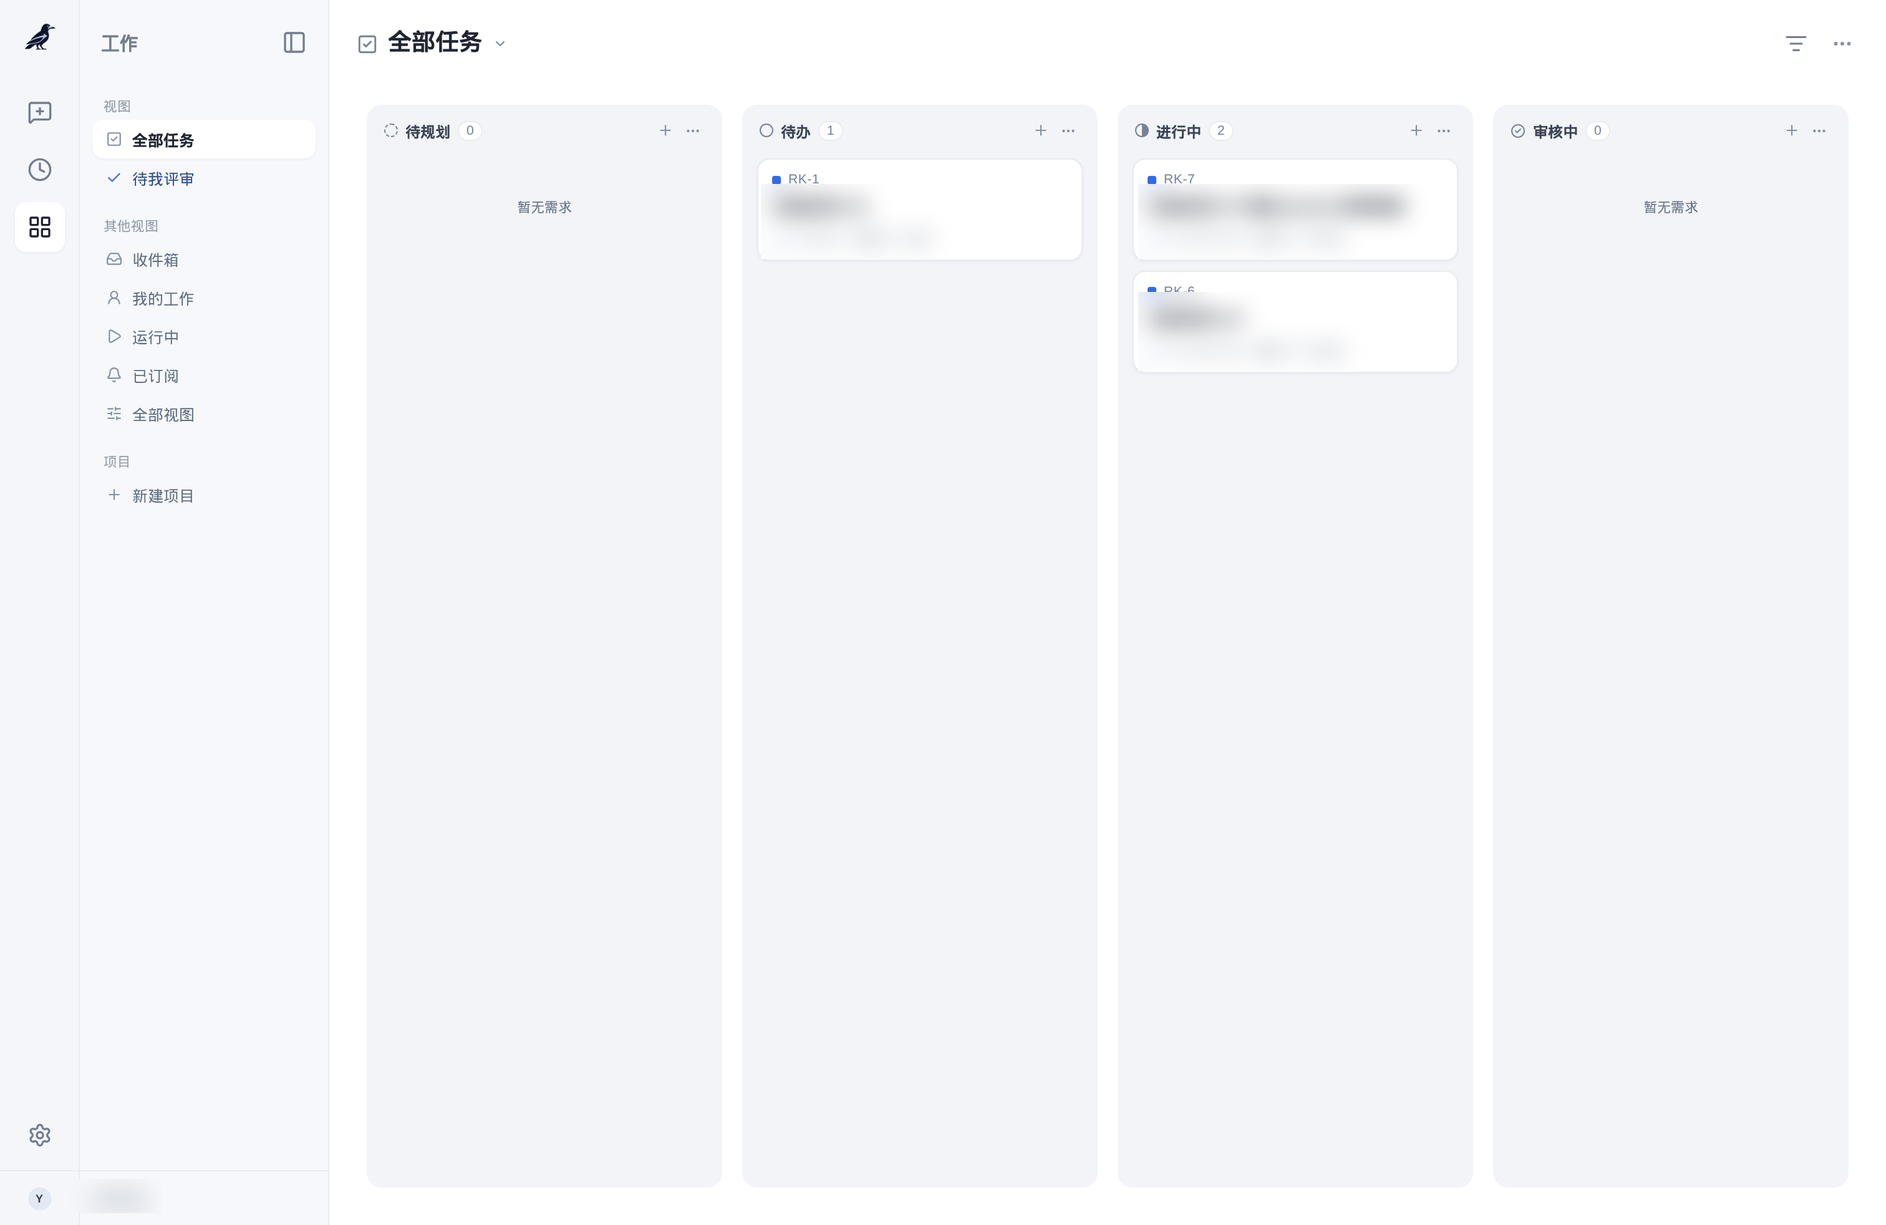
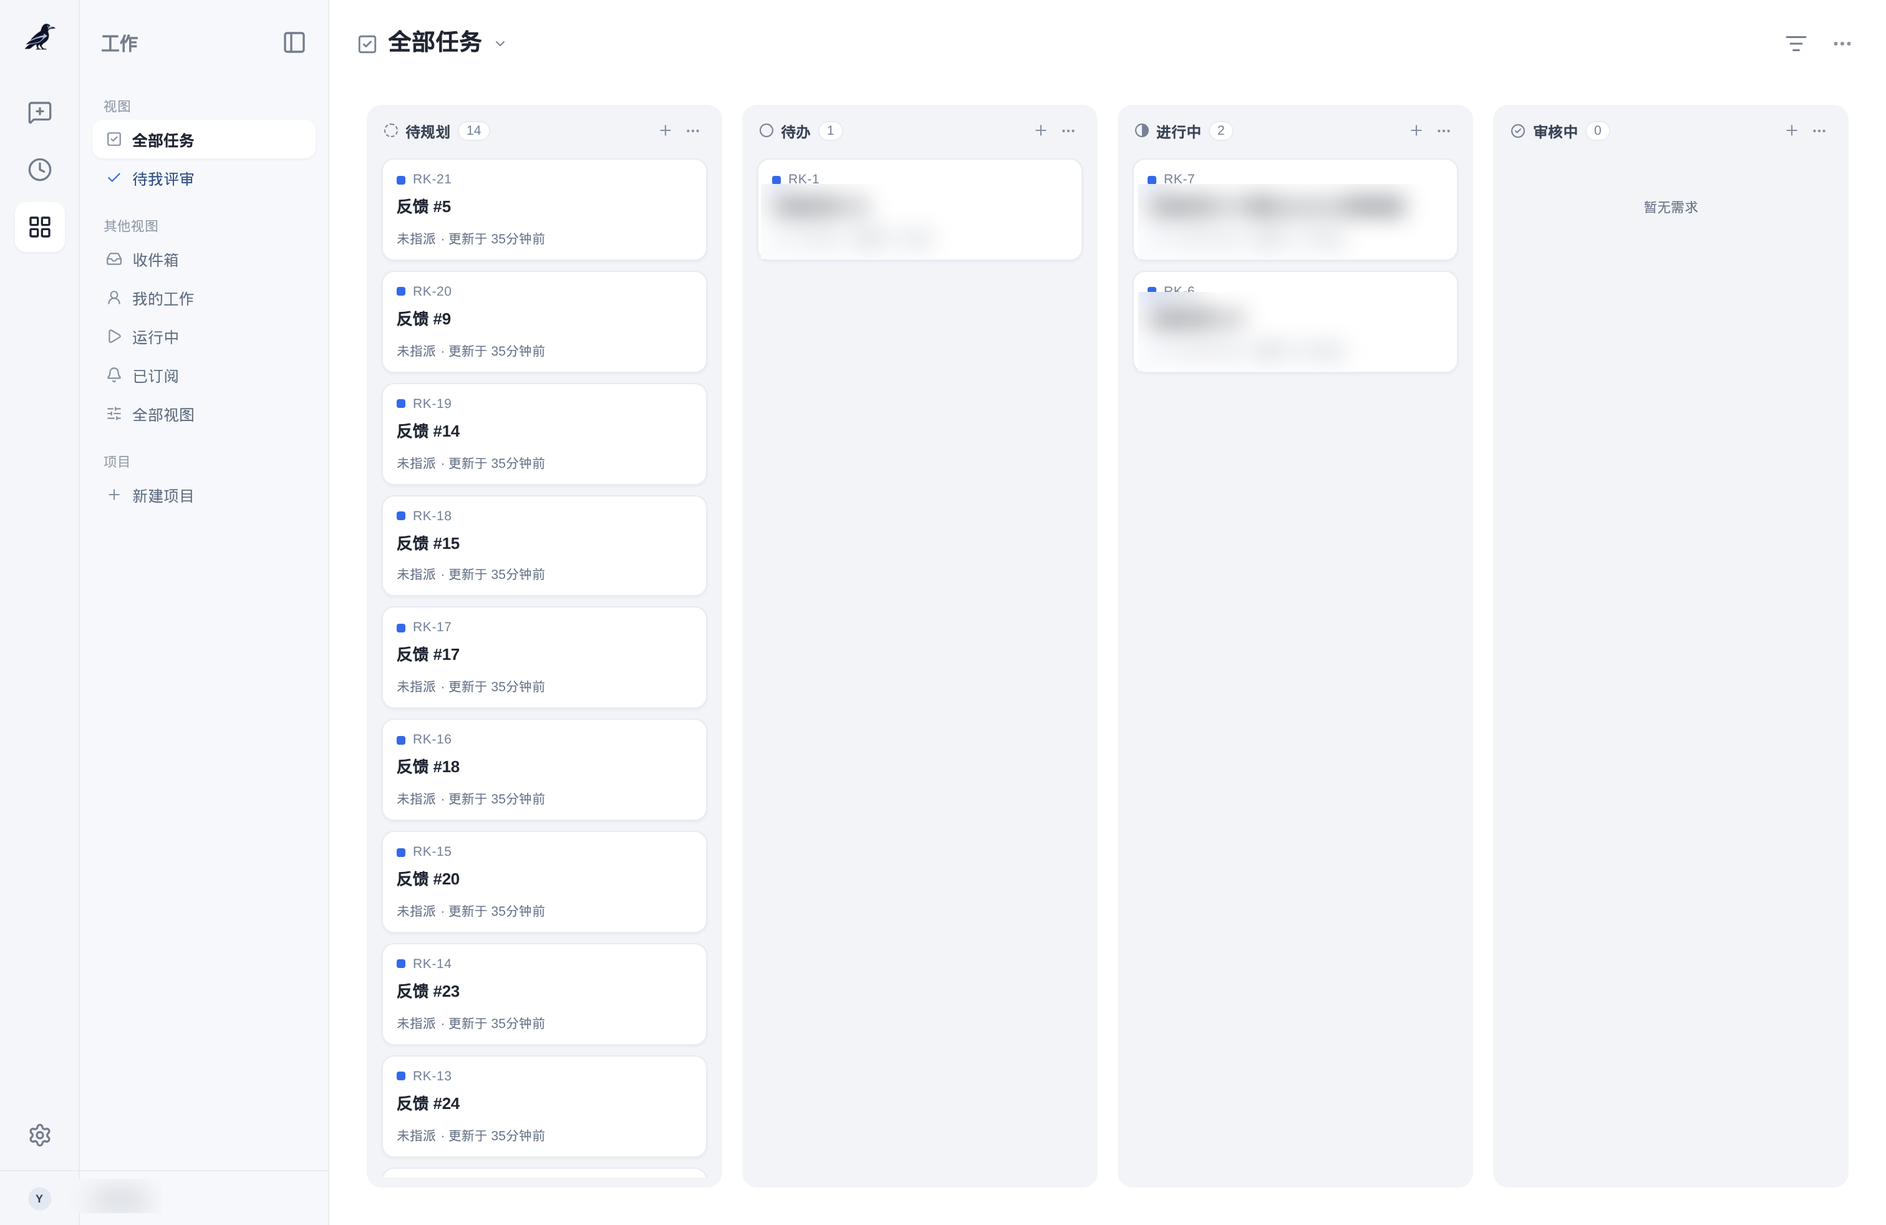
Publish reports/rook-kanban-lanes

diff --git a/public/index.html b/public/index.html
@@ -175,8 +175,8 @@ dialog::backdrop { background: #18251c40; backdrop-filter: blur(2px); }
   <section id="static-archive">
     <p>9 个主题</p>
     <ul class="static-list">
-      <li><a href="./reports/rook-superagent-plan-v5/"><h2>Rook SuperAgent 设计草案</h2></a><p class="project">技术方案 · reports/rook-superagent-plan-v5/</p><ul><li><a href="./reports/rook-superagent-plan-v5/">v5</a></li><li><a href="./reports/rook-superagent-plan-v4/">v4</a></li><li><a href="./reports/rook-superagent-plan-v3/">v3</a></li><li><a href="./reports/rook-superagent-plan-v2/">v2</a></li><li><a href="./reports/rook-superagent-plan/">v1</a></li></ul></li>
-<li><a href="./reports/rook-kanban-lanes/"><h2>Rook 看板全高泳道</h2></a><p class="project">设计原型 · reports/rook-kanban-lanes/</p></li>
+      <li><a href="./reports/rook-kanban-lanes/"><h2>Rook 看板全高泳道</h2></a><p class="project">设计原型 · reports/rook-kanban-lanes/</p></li>
+<li><a href="./reports/rook-superagent-plan-v5/"><h2>Rook SuperAgent 设计草案</h2></a><p class="project">技术方案 · reports/rook-superagent-plan-v5/</p><ul><li><a href="./reports/rook-superagent-plan-v5/">v5</a></li><li><a href="./reports/rook-superagent-plan-v4/">v4</a></li><li><a href="./reports/rook-superagent-plan-v3/">v3</a></li><li><a href="./reports/rook-superagent-plan-v2/">v2</a></li><li><a href="./reports/rook-superagent-plan/">v1</a></li></ul></li>
 <li><a href="./reports/building-always-on-agents/"><h2>Rook：Kanban 里的常驻智能体</h2></a><p class="doc-description">Anthropic《Building always-on agents》中文摘要：事件收件箱、定时器、记忆、权限、发件箱五个原语，以及它们如何组成一个持续运行的 Agent。</p><p class="project">技术方案 · reports/building-always-on-agents/</p></li>
 <li><a href="./reports/feedback-planning-design/"><h2>负反馈进入 Kanban 待规划</h2></a><p class="project">技术方案 · reports/feedback-planning-design/</p></li>
 <li><a href="./reports/task-detail-wide-whitespace/"><h2>需求页宽屏排法</h2></a><p class="doc-description">宽屏留白怎么排</p><p class="project">设计原型 · reports/task-detail-wide-whitespace/</p></li>
@@ -203,7 +203,7 @@ dialog::backdrop { background: #18251c40; backdrop-filter: blur(2px); }
   <form method="dialog"><button class="dialog-close" aria-label="关闭版本历史" autofocus>✕</button></form>
   <div id="drawer"></div>
 </dialog>
-<script id="archive-data" type="application/json">[{"category":"\u6280\u672f\u65b9\u6848","description":"","id":"reports/rook-superagent-plan","project":"Rook","title":"Rook SuperAgent \u8bbe\u8ba1\u8349\u6848","updated":"2026-11-25T15:36:12.704624Z","versions":[{"date":"2026-11-25T15:36:12.704624Z","href":"./reports/rook-superagent-plan-v5/","label":"v5","path":"reports/rook-superagent-plan-v5","summary":"v5\uff1a\u9636\u6bb5 0 \u53ea\u505a\u5185\u7f6e Rook\uff0c\u7528\u6237\u521b\u5efa\u5ef6\u540e\uff1bTask \u4f1a\u8bdd\u6309\u89e6\u53d1\u8005\u5206\u5f00"},{"date":"2026-11-25T15:23:50.097803Z","href":"./reports/rook-superagent-plan-v4/","label":"v4","path":"reports/rook-superagent-plan-v4","summary":"v4\uff1a8 \u9879\u51b3\u5b9a\u5168\u90e8\u786e\u8ba4\uff0c\u8bbe\u8ba1\u5df2\u5199\u5165 CONTEXT \u4e0e DESIGN"},{"date":"2026-11-25T14:41:58.958575Z","href":"./reports/rook-superagent-plan-v3/","label":"v3","path":"reports/rook-superagent-plan-v3","summary":"v3\uff1a\u89e6\u53d1\u8bcd\u5b9a\u4e3a\u667a\u80fd\u4f53\u540d\u79f0\uff0c\u7cfb\u7edf skill \u5168\u90e8\u53ef\u89c1\uff0c\u5f85\u51b3\u5b9a\u5269 5 \u9879"},{"date":"2026-11-25T14:19:18.508774Z","href":"./reports/rook-superagent-plan-v2/","label":"v2","path":"reports/rook-superagent-plan-v2","summary":"v2\uff1a\u52a0\u5165\u5e38\u9a7b Agent \u4e94\u539f\u8bed\u5bf9\u7167\u4e0e\u4e24\u5f20\u56fe\u3001\u9636\u6bb5 0 \u667a\u80fd\u4f53\u5b9a\u4e49\u30016 \u9879\u5f85\u51b3\u5b9a"},{"date":"2026-11-25T13:55:30.539644Z","href":"./reports/rook-superagent-plan/","label":"v1","path":"reports/rook-superagent-plan","summary":"\u9996\u7248\u8349\u6848\uff1a\u4e0e dsh-superagent-prototype \u5bf9\u7167\u3001\u4e09\u9636\u6bb5\u3001\u5f85\u51b3\u5b9a\u9879"}]},{"category":"\u8bbe\u8ba1\u539f\u578b","description":"","id":"rook-kanban-lanes","project":"Rook","title":"Rook \u770b\u677f\u5168\u9ad8\u6cf3\u9053","updated":"2026-11-25T15:31:22.008330Z","versions":[{"date":"2026-11-25T15:31:22.008330Z","href":"./reports/rook-kanban-lanes/","label":"v1","path":"reports/rook-kanban-lanes","summary":"\u590d\u523b Multica \u770b\u677f\u6cf3\u9053\uff1a\u5168\u9ad8\u5217\u3001\u5217\u5185\u6eda\u52a8\u300180% \u5bbd\u5ea6\uff1b\u542b 2K \u4e0e MBP 14 \u5bf8\u5b9e\u6d4b"}]},{"category":"\u6280\u672f\u65b9\u6848","description":"Anthropic\u300aBuilding always-on agents\u300b\u4e2d\u6587\u6458\u8981\uff1a\u4e8b\u4ef6\u6536\u4ef6\u7bb1\u3001\u5b9a\u65f6\u5668\u3001\u8bb0\u5fc6\u3001\u6743\u9650\u3001\u53d1\u4ef6\u7bb1\u4e94\u4e2a\u539f\u8bed\uff0c\u4ee5\u53ca\u5b83\u4eec\u5982\u4f55\u7ec4\u6210\u4e00\u4e2a\u6301\u7eed\u8fd0\u884c\u7684 Agent\u3002","id":"reports/building-always-on-agents","project":"Rook","title":"Rook\uff1aKanban \u91cc\u7684\u5e38\u9a7b\u667a\u80fd\u4f53","updated":"2026-11-25T14:48:47.089479Z","versions":[{"date":"2026-11-25T14:10:13.365022Z","href":"./reports/building-always-on-agents/","label":"v1","path":"reports/building-always-on-agents","summary":"\u5bf9\u7167 Rook SuperAgent \u65b9\u6848 v2\uff1aPhase 0-3\u3001Session Queue\u3001\u4e0b\u6e38 Agent \u5206\u6d3e\u3001\u8bb0\u5fc6/\u6743\u9650/\u6295\u9012\u7f3a\u53e3\uff1b\u542b\u4e09\u5f20\u539f\u521b\u56fe"}]},{"category":"\u6280\u672f\u65b9\u6848","description":"","id":"reports/feedback-planning-design","project":"Rook","title":"\u8d1f\u53cd\u9988\u8fdb\u5165 Kanban \u5f85\u89c4\u5212","updated":"2026-11-25T14:14:17.960529Z","versions":[{"date":"2026-11-25T14:14:17.960529Z","href":"./reports/feedback-planning-design/","label":"v1","path":"reports/feedback-planning-design","summary":"\u589e\u91cf\u901a\u8def\uff1a\u53cd\u9988\u4fdd\u5b58\u540e\u521b\u5efa\u770b\u677f\u5f85\u89c4\u5212 Task\uff1b\u7528\u6237\u53cd\u9988\u9875\u4fdd\u7559\uff0c\u7a33\u5b9a\u540e\u79fb\u9664\u3002"}]},{"category":"\u8bbe\u8ba1\u539f\u578b","description":"\u5bbd\u5c4f\u7559\u767d\u600e\u4e48\u6392","id":"reports/task-detail-wide-whitespace","project":"Rook","title":"\u9700\u6c42\u9875\u5bbd\u5c4f\u6392\u6cd5","updated":"2026-11-25T12:40:46.271516Z","versions":[{"date":"2026-11-25T12:40:46.271516Z","href":"./reports/task-detail-wide-whitespace/","label":"v1","path":"reports/task-detail-wide-whitespace","summary":"\u9700\u6c42\u9875\u5bbd\u5c4f\u7559\u767d\uff1a\u7ebf\u4e0a\u30011080 \u9875\u5757\u5c45\u4e2d\u3001\u52a8\u6001\u95f4\u8ddd\u4e09\u79cd\u6392\u6cd5\u5728 MBP14 \u4e0e 2K \u4e0b\u7684\u5b9e\u62cd\u5bf9\u6bd4"}]},{"category":"\u5206\u6790\u62a5\u544a","description":"","id":"reports/magpie-statechart-parity","project":"Magpie","title":"Magpie statechart \u6837\u5f0f\u4e00\u81f4\u6027\u9a8c\u8bc1","updated":"2026-11-25T10:04:37.010272Z","versions":[{"date":"2026-11-25T10:04:37.010272Z","href":"./reports/magpie-statechart-parity/","label":"v1","path":"reports/magpie-statechart-parity","summary":"16 \u7ec4\u622a\u56fe\u5bf9\u6bd4\u96f6\u50cf\u7d20\u5dee\u5f02\uff0c\u6709\u65e0 statechart \u5b89\u88c5\u65f6 SVG \u9010\u5b57\u8282\u4e00\u81f4"}]},{"category":"\u672a\u5206\u7c7b","description":"DESIGN-003 AD Caster \u63a5\u5165 Inference","id":"legacy-ff91a472fbfc","project":"","title":"AD Caster \u63a5\u5165 Inference","updated":"2026-11-25T09:28:33Z","versions":[{"date":"2026-11-25T09:01:22Z","href":"./reports/inference-ad-caster/","label":"v1","path":"reports/inference-ad-caster","summary":""}]},{"category":"\u8bbe\u8ba1\u539f\u578b","description":"\u6708\u5ea6\u7d22\u5f15\u3001\u5185\u5bb9\u5206\u7c7b\u3001\u5206\u9875\u53ca\u7248\u672c\u6253\u5f00\u89c4\u5219\u7684\u4ea4\u4e92\u8bbe\u8ba1\u539f\u578b\u3002","id":"lemon-pages-navigation","project":"Lemon Pages","title":"\u9875\u9762\u5bfc\u822a\u4ea4\u4e92\u539f\u578b","updated":"2026-11-25T09:03:43Z","versions":[{"date":"2026-11-25T08:25:20Z","href":"./reports/navigation-ui-prototype/","label":"v1","path":"reports/navigation-ui-prototype","summary":"\u6708\u5ea6\u7d22\u5f15\u4ea4\u4e92\u539f\u578b"}]},{"category":"\u8bbe\u8ba1\u539f\u578b","description":"Rook \u7684\u56db\u4e2a\u89c6\u56fe","id":"rook-workspace","project":"Rook","title":"Rook \u5de5\u4f5c\u53f0\u8bbe\u8ba1","updated":"2026-11-25T08:00:59Z","versions":[{"date":"2026-11-25T06:28:11Z","href":"./reports/rook-tabs-design-v2/","label":"v2","path":"reports/rook-tabs-design-v2","summary":"\u5de5\u4f5c\u53f0\u8bbe\u8ba1\u5386\u53f2\u7248\u672c v2"},{"date":"2026-11-25T06:28:11Z","href":"./reports/rook-tabs-design/","label":"v1","path":"reports/rook-tabs-design","summary":"\u5de5\u4f5c\u53f0\u8bbe\u8ba1\u5386\u53f2\u7248\u672c v1"}]}]</script>
+<script id="archive-data" type="application/json">[{"category":"\u8bbe\u8ba1\u539f\u578b","description":"","id":"rook-kanban-lanes","project":"Rook","title":"Rook \u770b\u677f\u5168\u9ad8\u6cf3\u9053","updated":"2026-11-25T16:07:12.181337Z","versions":[{"date":"2026-11-25T15:31:22.008330Z","href":"./reports/rook-kanban-lanes/","label":"v1","path":"reports/rook-kanban-lanes","summary":"\u66f4\u65b0\u4e3a v2026.1125.018 \u7684 2K \u4e0e MBP 14 \u5bf8\u622a\u56fe"}]},{"category":"\u6280\u672f\u65b9\u6848","description":"","id":"reports/rook-superagent-plan","project":"Rook","title":"Rook SuperAgent \u8bbe\u8ba1\u8349\u6848","updated":"2026-11-25T15:36:12.704624Z","versions":[{"date":"2026-11-25T15:36:12.704624Z","href":"./reports/rook-superagent-plan-v5/","label":"v5","path":"reports/rook-superagent-plan-v5","summary":"v5\uff1a\u9636\u6bb5 0 \u53ea\u505a\u5185\u7f6e Rook\uff0c\u7528\u6237\u521b\u5efa\u5ef6\u540e\uff1bTask \u4f1a\u8bdd\u6309\u89e6\u53d1\u8005\u5206\u5f00"},{"date":"2026-11-25T15:23:50.097803Z","href":"./reports/rook-superagent-plan-v4/","label":"v4","path":"reports/rook-superagent-plan-v4","summary":"v4\uff1a8 \u9879\u51b3\u5b9a\u5168\u90e8\u786e\u8ba4\uff0c\u8bbe\u8ba1\u5df2\u5199\u5165 CONTEXT \u4e0e DESIGN"},{"date":"2026-11-25T14:41:58.958575Z","href":"./reports/rook-superagent-plan-v3/","label":"v3","path":"reports/rook-superagent-plan-v3","summary":"v3\uff1a\u89e6\u53d1\u8bcd\u5b9a\u4e3a\u667a\u80fd\u4f53\u540d\u79f0\uff0c\u7cfb\u7edf skill \u5168\u90e8\u53ef\u89c1\uff0c\u5f85\u51b3\u5b9a\u5269 5 \u9879"},{"date":"2026-11-25T14:19:18.508774Z","href":"./reports/rook-superagent-plan-v2/","label":"v2","path":"reports/rook-superagent-plan-v2","summary":"v2\uff1a\u52a0\u5165\u5e38\u9a7b Agent \u4e94\u539f\u8bed\u5bf9\u7167\u4e0e\u4e24\u5f20\u56fe\u3001\u9636\u6bb5 0 \u667a\u80fd\u4f53\u5b9a\u4e49\u30016 \u9879\u5f85\u51b3\u5b9a"},{"date":"2026-11-25T13:55:30.539644Z","href":"./reports/rook-superagent-plan/","label":"v1","path":"reports/rook-superagent-plan","summary":"\u9996\u7248\u8349\u6848\uff1a\u4e0e dsh-superagent-prototype \u5bf9\u7167\u3001\u4e09\u9636\u6bb5\u3001\u5f85\u51b3\u5b9a\u9879"}]},{"category":"\u6280\u672f\u65b9\u6848","description":"Anthropic\u300aBuilding always-on agents\u300b\u4e2d\u6587\u6458\u8981\uff1a\u4e8b\u4ef6\u6536\u4ef6\u7bb1\u3001\u5b9a\u65f6\u5668\u3001\u8bb0\u5fc6\u3001\u6743\u9650\u3001\u53d1\u4ef6\u7bb1\u4e94\u4e2a\u539f\u8bed\uff0c\u4ee5\u53ca\u5b83\u4eec\u5982\u4f55\u7ec4\u6210\u4e00\u4e2a\u6301\u7eed\u8fd0\u884c\u7684 Agent\u3002","id":"reports/building-always-on-agents","project":"Rook","title":"Rook\uff1aKanban \u91cc\u7684\u5e38\u9a7b\u667a\u80fd\u4f53","updated":"2026-11-25T14:48:47.089479Z","versions":[{"date":"2026-11-25T14:10:13.365022Z","href":"./reports/building-always-on-agents/","label":"v1","path":"reports/building-always-on-agents","summary":"\u5bf9\u7167 Rook SuperAgent \u65b9\u6848 v2\uff1aPhase 0-3\u3001Session Queue\u3001\u4e0b\u6e38 Agent \u5206\u6d3e\u3001\u8bb0\u5fc6/\u6743\u9650/\u6295\u9012\u7f3a\u53e3\uff1b\u542b\u4e09\u5f20\u539f\u521b\u56fe"}]},{"category":"\u6280\u672f\u65b9\u6848","description":"","id":"reports/feedback-planning-design","project":"Rook","title":"\u8d1f\u53cd\u9988\u8fdb\u5165 Kanban \u5f85\u89c4\u5212","updated":"2026-11-25T14:14:17.960529Z","versions":[{"date":"2026-11-25T14:14:17.960529Z","href":"./reports/feedback-planning-design/","label":"v1","path":"reports/feedback-planning-design","summary":"\u589e\u91cf\u901a\u8def\uff1a\u53cd\u9988\u4fdd\u5b58\u540e\u521b\u5efa\u770b\u677f\u5f85\u89c4\u5212 Task\uff1b\u7528\u6237\u53cd\u9988\u9875\u4fdd\u7559\uff0c\u7a33\u5b9a\u540e\u79fb\u9664\u3002"}]},{"category":"\u8bbe\u8ba1\u539f\u578b","description":"\u5bbd\u5c4f\u7559\u767d\u600e\u4e48\u6392","id":"reports/task-detail-wide-whitespace","project":"Rook","title":"\u9700\u6c42\u9875\u5bbd\u5c4f\u6392\u6cd5","updated":"2026-11-25T12:40:46.271516Z","versions":[{"date":"2026-11-25T12:40:46.271516Z","href":"./reports/task-detail-wide-whitespace/","label":"v1","path":"reports/task-detail-wide-whitespace","summary":"\u9700\u6c42\u9875\u5bbd\u5c4f\u7559\u767d\uff1a\u7ebf\u4e0a\u30011080 \u9875\u5757\u5c45\u4e2d\u3001\u52a8\u6001\u95f4\u8ddd\u4e09\u79cd\u6392\u6cd5\u5728 MBP14 \u4e0e 2K \u4e0b\u7684\u5b9e\u62cd\u5bf9\u6bd4"}]},{"category":"\u5206\u6790\u62a5\u544a","description":"","id":"reports/magpie-statechart-parity","project":"Magpie","title":"Magpie statechart \u6837\u5f0f\u4e00\u81f4\u6027\u9a8c\u8bc1","updated":"2026-11-25T10:04:37.010272Z","versions":[{"date":"2026-11-25T10:04:37.010272Z","href":"./reports/magpie-statechart-parity/","label":"v1","path":"reports/magpie-statechart-parity","summary":"16 \u7ec4\u622a\u56fe\u5bf9\u6bd4\u96f6\u50cf\u7d20\u5dee\u5f02\uff0c\u6709\u65e0 statechart \u5b89\u88c5\u65f6 SVG \u9010\u5b57\u8282\u4e00\u81f4"}]},{"category":"\u672a\u5206\u7c7b","description":"DESIGN-003 AD Caster \u63a5\u5165 Inference","id":"legacy-ff91a472fbfc","project":"","title":"AD Caster \u63a5\u5165 Inference","updated":"2026-11-25T09:28:33Z","versions":[{"date":"2026-11-25T09:01:22Z","href":"./reports/inference-ad-caster/","label":"v1","path":"reports/inference-ad-caster","summary":""}]},{"category":"\u8bbe\u8ba1\u539f\u578b","description":"\u6708\u5ea6\u7d22\u5f15\u3001\u5185\u5bb9\u5206\u7c7b\u3001\u5206\u9875\u53ca\u7248\u672c\u6253\u5f00\u89c4\u5219\u7684\u4ea4\u4e92\u8bbe\u8ba1\u539f\u578b\u3002","id":"lemon-pages-navigation","project":"Lemon Pages","title":"\u9875\u9762\u5bfc\u822a\u4ea4\u4e92\u539f\u578b","updated":"2026-11-25T09:03:43Z","versions":[{"date":"2026-11-25T08:25:20Z","href":"./reports/navigation-ui-prototype/","label":"v1","path":"reports/navigation-ui-prototype","summary":"\u6708\u5ea6\u7d22\u5f15\u4ea4\u4e92\u539f\u578b"}]},{"category":"\u8bbe\u8ba1\u539f\u578b","description":"Rook \u7684\u56db\u4e2a\u89c6\u56fe","id":"rook-workspace","project":"Rook","title":"Rook \u5de5\u4f5c\u53f0\u8bbe\u8ba1","updated":"2026-11-25T08:00:59Z","versions":[{"date":"2026-11-25T06:28:11Z","href":"./reports/rook-tabs-design-v2/","label":"v2","path":"reports/rook-tabs-design-v2","summary":"\u5de5\u4f5c\u53f0\u8bbe\u8ba1\u5386\u53f2\u7248\u672c v2"},{"date":"2026-11-25T06:28:11Z","href":"./reports/rook-tabs-design/","label":"v1","path":"reports/rook-tabs-design","summary":"\u5de5\u4f5c\u53f0\u8bbe\u8ba1\u5386\u53f2\u7248\u672c v1"}]}]</script>
 <script>
 (() => {
   const PAGE_SIZE = 20;

diff --git a/public/reports/rook-kanban-lanes/index.html b/public/reports/rook-kanban-lanes/index.html
@@ -403,14 +403,14 @@ footer {
   <header>
     <div class="head-top">
       <h1>Rook 看板全高泳道</h1>
-      <span class="pill-auto">v2026.1125.015 · 2026-11-25</span>
+      <span class="pill-auto">v2026.1125.018 · 2026-11-25</span>
     </div>
     <p class="subtitle">复刻 Multica 看板泳道：问题、实现与线上验收。依据 Multica 本地源码（c33158bf）、线上 Playwright 测量与发布记录。</p>
   </header>
 
   <div class="tldr" id="tldr">
     <div class="tldr-label">TL;DR</div>
-    <p>v2026.1125.015 已上线。看板从 1036px 居中窄条改为 Multica 式全高泳道：看板宽 <code>min(80vw, 100%)</code> 居中，2560 视口下 2048px、四列各 496px；1512 视口下 1204px、四列各 285px。</p>
+    <p>看板泳道随 v2026.1125.015 上线，当前线上 v2026.1125.018 沿用同一布局。看板从 1036px 居中窄条改为 Multica 式全高泳道：看板宽 <code>min(80vw, 100%)</code> 居中，2560 视口下 2048px、四列各 496px；1512 视口下 1204px、四列各 285px。</p>
     <p>列背景为浅灰圆角、列间距 16px、列高撑满内容区；卡片区在列内独立滚动、列头固定；空状态在列内居中。列表视图保持 1036px，已验收的需求页未改动。</p>
     <p>已知边界：视口窄于约 1450px 时列宽停在 280px，列区改为横向滚动；容器宽 ≤800px 沿用原两列网格。与 Multica 行为一致。</p>
   </div>
@@ -510,13 +510,20 @@ footer {
   <section id="effect">
     <h2>效果与测量</h2>
     <hr class="rule">
-    <p class="lede">MacBook Pro 14 寸等效视口（1512×982，Retina 2×）的线上截图；下方表格给出 2560 与 1512 两档的实测值。</p>
+    <p class="lede">截图取自当前线上 v2026.1125.018（构建 1526d2a，含反馈建需求）；布局与 v2026.1125.015 相同。下方表格给出 2560 与 1512 两档的实测值。</p>
 
     <figure>
       <div class="shot">
-        <img src="assets/board-mbp14.png" alt="Rook 看板在 1512×982 视口下的全高泳道布局">
+        <img src="assets/board-2k.png" alt="Rook 看板在 2560×1440 视口下的全高泳道布局">
       </div>
-      <figcaption>看板宽 1204px，四列各 285px 撑满视口高度，列间距 16px；截图中的人员姓名与任务标题已模糊处理。</figcaption>
+      <figcaption>2560×1440：看板宽 2048px 居中，四列各 496×1326，列间距 16px；待规划列 14 张卡片在列内滚动。</figcaption>
+    </figure>
+
+    <figure>
+      <div class="shot">
+        <img src="assets/board-mbp14.png" alt="Rook 看板在 MacBook Pro 14 寸视口下的全高泳道布局">
+      </div>
+      <figcaption>MacBook Pro 14 寸（1512×982，Retina 2×）：看板宽 1204px，四列各 285×868 撑满视口高度，列间距 16px；截图中的人员姓名与任务标题已模糊处理。</figcaption>
     </figure>
 
     <div class="table-wrap">
@@ -578,6 +585,7 @@ footer {
           <tr><td>发布</td><td>Caster 发布单 3051173（配置 528681、sh001、1 副本、rolling），23:16:00 创建，23:18:23 完成</td></tr>
           <tr><td>实例</td><td>新实例 23:16:18 启动，Running / healthy / discovery up</td></tr>
           <tr><td>线上核对</td><td><code>/healthz</code>、<code>/readyz</code>（blockers 为空）、<code>/chat</code>、<code>/api/me</code> 均 200；构建号出现在 <code>index-C57bKb2Y.js</code>；<code>index-CdkbsLCD.css</code> 含 10 条泳道规则</td></tr>
+          <tr><td>当前线上</td><td>v2026.1125.018（main <code>1526d2a</code>，MR !173：反馈建需求与本次布局合并）：复测全部通过，JS <code>index-ChtNc7Fy.js</code> 带构建号，CSS 10/10 泳道规则</td></tr>
           <tr><td>Paladin</td><td>发布前核对源与目标配置：无待发布 config 变更，无需同步</td></tr>
         </tbody>
       </table>
@@ -585,7 +593,7 @@ footer {
   </section>
 
   <footer>
-    Sources: Multica 本地 checkout c33158bf（board-view.tsx / board-column.tsx / board-card.tsx）；web/kanban.tsx、web/style.css；Playwright 线上核对（Chrome，2026-11-25）；Nyx / Caster / GitLab 发布记录 &nbsp;—&nbsp; generated 2026-11-25 23:30
+    Sources: Multica 本地 checkout c33158bf（board-view.tsx / board-column.tsx / board-card.tsx）；web/kanban.tsx、web/style.css；Playwright 线上核对（Chrome，2026-11-26）；Nyx / Caster / GitLab 发布记录 &nbsp;—&nbsp; generated 2026-11-26 00:10
   </footer>
 
 </main>
